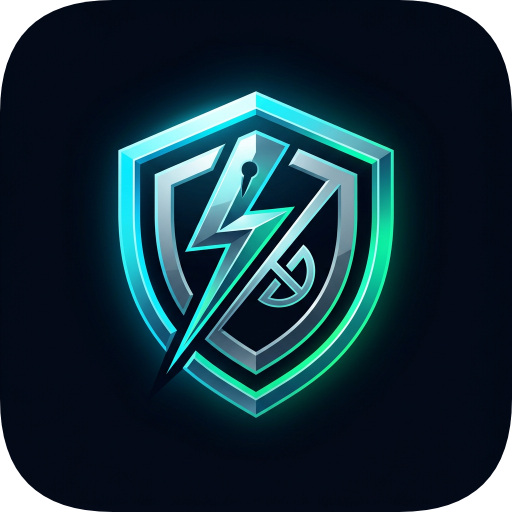
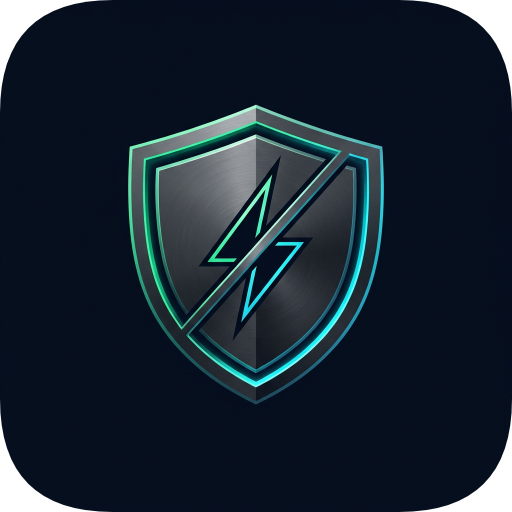
Actualizacion completa UI e iconos v5.3

Changed region(s): [[0.1875, 0.1562, 0.8125, 0.8438]]

diff --git a/app/src/main/java/com/bloqueador/anuncios/MainActivity.java b/app/src/main/java/com/bloqueador/anuncios/MainActivity.java
@@ -26,7 +26,9 @@ import android.os.Handler;
 import android.os.Looper;
 import android.os.PowerManager;
 import android.provider.Settings;
+import android.text.Editable;
 import android.text.TextUtils;
+import android.text.TextWatcher;
 import android.view.Gravity;
 import android.view.View;
 import android.view.ViewGroup;
@@ -73,12 +75,15 @@ public class MainActivity extends Activity {
     private LinearLayout topKeyBox, btnPower, alertBanner;
     private ImageView ivTopKey, ivKey;
     private TextView tvKeyLabel, tvState, tvSubState, tvAlertText;
+    private TextView tvHeroNet, tvHeroQuic, tvHeroSni;
     private TextView tvAds, tvQueries, tvListCount, tvLast;
     private TextView tvRowPackets, tvRowDoh, tvRowQuic, tvRowDns;
 
     // Activity tab
     private final TextView[] filterPills = new TextView[3];
     private int activityFilter = 0; // 0 = todos, 1 = bloqueados, 2 = permitidos
+    private String activityQuery = "";
+    private EditText etSearch;
     private LinearLayout boxHistory;
     private TextView tvManual;
 
@@ -253,13 +258,19 @@ public class MainActivity extends Activity {
         bar.setBackgroundColor(BG_BAR);
         bar.setPadding(dp(14), dp(12), dp(14), dp(12));
 
+        LinearLayout logoWrap = new LinearLayout(this);
+        logoWrap.setGravity(Gravity.CENTER);
+        logoWrap.setBackground(roundedBg(Color.parseColor("#11223A"), Color.parseColor("#1E4E6E"), 10));
+        LinearLayout.LayoutParams llp = new LinearLayout.LayoutParams(dp(34), dp(34));
+        llp.setMargins(0, 0, dp(10), 0);
+        logoWrap.setLayoutParams(llp);
+
         ImageView logo = new ImageView(this);
         logo.setImageResource(R.drawable.ic_nav_shield);
         logo.setColorFilter(CYAN, PorterDuff.Mode.SRC_IN);
-        LinearLayout.LayoutParams llp = new LinearLayout.LayoutParams(dp(24), dp(24));
-        llp.setMargins(0, 0, dp(10), 0);
-        logo.setLayoutParams(llp);
-        bar.addView(logo);
+        logo.setLayoutParams(new LinearLayout.LayoutParams(dp(19), dp(19)));
+        logoWrap.addView(logo);
+        bar.addView(logoWrap);
 
         LinearLayout left = new LinearLayout(this);
         left.setOrientation(LinearLayout.VERTICAL);
@@ -271,13 +282,13 @@ public class MainActivity extends Activity {
 
         TextView brand = new TextView(this);
         brand.setText("Adblock Gamer Pro");
-        brand.setTextSize(16);
+        brand.setTextSize(15);
         brand.setTypeface(null, Typeface.BOLD);
         brand.setTextColor(TEXT_PRIMARY);
         titleRow.addView(brand);
 
         TextView ver = new TextView(this);
-        ver.setText("v5.2");
+        ver.setText("v5.3");
         ver.setTextSize(10);
         ver.setTypeface(null, Typeface.BOLD);
         ver.setTextColor(CYAN);
@@ -331,14 +342,14 @@ public class MainActivity extends Activity {
     private LinearLayout buildProtectionTab() {
         LinearLayout root = tabContainer();
 
-        LinearLayout hero = cardBox(16, 16);
+        LinearLayout hero = cardBox(16, 15);
         hero.setGravity(Gravity.CENTER_HORIZONTAL);
 
         btnPower = new LinearLayout(this);
         btnPower.setOrientation(LinearLayout.VERTICAL);
         btnPower.setGravity(Gravity.CENTER);
         btnPower.setPadding(0, 0, 0, 0);
-        int pSize = dp(136);
+        int pSize = dp(142);
         LinearLayout.LayoutParams pLp = new LinearLayout.LayoutParams(pSize, pSize);
         pLp.gravity = Gravity.CENTER_HORIZONTAL;
         btnPower.setLayoutParams(pLp);
@@ -348,7 +359,7 @@ public class MainActivity extends Activity {
         ivKey.setImageResource(R.drawable.ic_key_gamer);
         ivKey.setScaleType(ImageView.ScaleType.FIT_CENTER);
         ivKey.setColorFilter(ROSE, PorterDuff.Mode.SRC_IN);
-        LinearLayout.LayoutParams kLp = new LinearLayout.LayoutParams(dp(44), dp(44));
+        LinearLayout.LayoutParams kLp = new LinearLayout.LayoutParams(dp(42), dp(42));
         kLp.gravity = Gravity.CENTER_HORIZONTAL;
         ivKey.setLayoutParams(kLp);
         btnPower.addView(ivKey);
@@ -357,7 +368,7 @@ public class MainActivity extends Activity {
         tvKeyLabel.setText("ACTIVAR");
         tvKeyLabel.setTextSize(11);
         tvKeyLabel.setTypeface(null, Typeface.BOLD);
-        tvKeyLabel.setLetterSpacing(0.10f);
+        tvKeyLabel.setLetterSpacing(0.11f);
         tvKeyLabel.setTextColor(TEXT_PRIMARY);
         tvKeyLabel.setIncludeFontPadding(false);
         tvKeyLabel.setGravity(Gravity.CENTER);
@@ -365,11 +376,16 @@ public class MainActivity extends Activity {
         LinearLayout.LayoutParams tLp = new LinearLayout.LayoutParams(
                 ViewGroup.LayoutParams.WRAP_CONTENT, ViewGroup.LayoutParams.WRAP_CONTENT);
         tLp.gravity = Gravity.CENTER_HORIZONTAL;
-        tLp.setMargins(0, dp(5), 0, 0);
+        tLp.setMargins(0, dp(4), 0, 0);
         tvKeyLabel.setLayoutParams(tLp);
         btnPower.addView(tvKeyLabel);
 
-        btnPower.setOnClickListener(v -> toggleProtection());
+        btnPower.setOnClickListener(v -> {
+            btnPower.animate().scaleX(0.93f).scaleY(0.93f).setDuration(80)
+                    .withEndAction(() -> btnPower.animate().scaleX(1f).scaleY(1f).setDuration(110).start())
+                    .start();
+            toggleProtection();
+        });
         hero.addView(btnPower);
 
         tvState = new TextView(this);
@@ -378,7 +394,7 @@ public class MainActivity extends Activity {
         tvState.setTypeface(null, Typeface.BOLD);
         tvState.setTextColor(ROSE);
         tvState.setGravity(Gravity.CENTER);
-        tvState.setPadding(0, dp(12), 0, dp(3));
+        tvState.setPadding(0, dp(10), 0, dp(2));
         hero.addView(tvState);
 
         tvSubState = new TextView(this);
@@ -386,7 +402,21 @@ public class MainActivity extends Activity {
         tvSubState.setTextSize(12);
         tvSubState.setTextColor(TEXT_MUTED);
         tvSubState.setGravity(Gravity.CENTER);
+        tvSubState.setPadding(0, 0, 0, dp(10));
         hero.addView(tvSubState);
+
+        hero.addView(divider());
+
+        LinearLayout heroStrip = new LinearLayout(this);
+        heroStrip.setOrientation(LinearLayout.HORIZONTAL);
+        heroStrip.setWeightSum(3);
+        heroStrip.setPadding(0, dp(9), 0, 0);
+        heroStrip.setLayoutParams(new LinearLayout.LayoutParams(
+                ViewGroup.LayoutParams.MATCH_PARENT, ViewGroup.LayoutParams.WRAP_CONTENT));
+        tvHeroNet = miniTag(heroStrip, "WiFi + 4G/5G");
+        tvHeroQuic = miniTag(heroStrip, "QUIC / DoH");
+        tvHeroSni = miniTag(heroStrip, "Filtro SNI");
+        hero.addView(heroStrip);
 
         root.addView(hero);
 
@@ -434,9 +464,9 @@ public class MainActivity extends Activity {
         mlp.setMargins(0, dp(10), 0, 0);
         metrics.setLayoutParams(mlp);
 
-        tvAds = metricCard(metrics, "0", "Bloqueados", EMERALD, true);
-        tvQueries = metricCard(metrics, "0", "Consultas", CYAN, true);
-        tvListCount = metricCard(metrics, "76k", "Dominios", TEXT_PRIMARY, false);
+        tvAds = metricCard(metrics, R.drawable.ic_nav_shield, "0", "Bloqueados", EMERALD, true);
+        tvQueries = metricCard(metrics, R.drawable.ic_nav_activity, "0", "Consultas", CYAN, true);
+        tvListCount = metricCard(metrics, R.drawable.ic_perm_data, "76k", "Dominios", TEXT_PRIMARY, false);
         root.addView(metrics);
 
         LinearLayout lastCard = cardBox(15, 11);
@@ -525,6 +555,54 @@ public class MainActivity extends Activity {
         }
         styleFilterChips();
         headerCard.addView(chips);
+
+        LinearLayout searchBox = new LinearLayout(this);
+        searchBox.setOrientation(LinearLayout.HORIZONTAL);
+        searchBox.setGravity(Gravity.CENTER_VERTICAL);
+        searchBox.setBackground(roundedBg(BG_DARK, BORDER_SUBTLE, 11));
+        searchBox.setPadding(dp(10), dp(2), dp(8), dp(2));
+        LinearLayout.LayoutParams slp = new LinearLayout.LayoutParams(
+                ViewGroup.LayoutParams.MATCH_PARENT, ViewGroup.LayoutParams.WRAP_CONTENT);
+        slp.setMargins(0, dp(9), 0, 0);
+        searchBox.setLayoutParams(slp);
+
+        ImageView sIc = new ImageView(this);
+        sIc.setImageResource(R.drawable.ic_search_small);
+        sIc.setColorFilter(TEXT_MUTED, PorterDuff.Mode.SRC_IN);
+        LinearLayout.LayoutParams silp = new LinearLayout.LayoutParams(dp(15), dp(15));
+        silp.setMargins(0, 0, dp(8), 0);
+        sIc.setLayoutParams(silp);
+        searchBox.addView(sIc);
+
+        etSearch = new EditText(this);
+        etSearch.setHint("Buscar dominio (ej: mollyflow, emochi)...");
+        etSearch.setTextSize(12);
+        etSearch.setSingleLine(true);
+        etSearch.setBackground(null);
+        etSearch.setTextColor(TEXT_PRIMARY);
+        etSearch.setHintTextColor(Color.parseColor("#52668A"));
+        etSearch.setPadding(0, dp(7), 0, dp(7));
+        etSearch.setLayoutParams(new LinearLayout.LayoutParams(0, ViewGroup.LayoutParams.WRAP_CONTENT, 1f));
+        etSearch.addTextChangedListener(new TextWatcher() {
+            @Override public void beforeTextChanged(CharSequence s, int start, int count, int after) {}
+            @Override public void onTextChanged(CharSequence s, int start, int before, int count) {}
+            @Override public void afterTextChanged(Editable s) {
+                activityQuery = s == null ? "" : s.toString().trim().toLowerCase();
+                renderHistory();
+            }
+        });
+        searchBox.addView(etSearch);
+
+        TextView clearBtn = new TextView(this);
+        clearBtn.setText("Limpiar");
+        clearBtn.setTextSize(10);
+        clearBtn.setTypeface(null, Typeface.BOLD);
+        clearBtn.setTextColor(TEXT_MUTED);
+        clearBtn.setPadding(dp(8), dp(5), dp(6), dp(5));
+        clearBtn.setOnClickListener(v -> etSearch.setText(""));
+        searchBox.addView(clearBtn);
+
+        headerCard.addView(searchBox);
         root.addView(headerCard);
 
         LinearLayout listCard = cardBox(12, 8);
@@ -620,15 +698,15 @@ public class MainActivity extends Activity {
 
         LinearLayout swCard = cardBox(15, 10);
         swCard.addView(cardTitle("CAPAS DE BLOQUEO AVANZADO"));
-        swCard.addView(switchRow("Inspección SNI + HTTP", "Analiza conexiones de juegos sin descifrar datos privados", 0));
+        swCard.addView(switchRow(R.drawable.ic_nav_shield, "Inspección SNI + HTTP", "Analiza conexiones de juegos sin descifrar datos privados", 0));
         swCard.addView(divider());
-        swCard.addView(switchRow("Bloquear red publicitaria de Meta", "Filtra anuncios sin afectar WhatsApp ni Instagram", 1));
+        swCard.addView(switchRow(R.drawable.ic_nav_filters, "Bloquear red publicitaria de Meta", "Filtra anuncios sin afectar WhatsApp ni Instagram", 1));
         swCard.addView(divider());
-        swCard.addView(switchRow("Cortar QUIC (UDP 443 y 8443)", "Evita que Chrome/WebView/ads esquiven el filtro TCP", 2));
+        swCard.addView(switchRow(R.drawable.ic_nav_activity, "Cortar QUIC (UDP 443 y 8443)", "Evita que Chrome/WebView/ads esquiven el filtro TCP", 2));
         swCard.addView(divider());
-        swCard.addView(switchRow("Cortar DoT / DoH evasivo", "Impide que los SDKs usen DNS privado 1.1.1.1 / 8.8.8.8", 3));
+        swCard.addView(switchRow(R.drawable.ic_perm_vpn, "Cortar DoT / DoH evasivo", "Impide que los SDKs usen DNS privado 1.1.1.1 / 8.8.8.8", 3));
         swCard.addView(divider());
-        swCard.addView(switchRow("Notificar anuncios bloqueados", "Muestra aviso en Android al cortar publicidad", 4));
+        swCard.addView(switchRow(R.drawable.ic_perm_notif, "Notificar anuncios bloqueados", "Muestra aviso en Android al cortar publicidad", 4));
         root.addView(swCard);
 
         LinearLayout listCard = cardBox(15, 13);
@@ -842,7 +920,19 @@ public class MainActivity extends Activity {
         return t;
     }
 
-    private TextView metricCard(LinearLayout parent, String val, String label, int color, boolean gapRight) {
+    private TextView miniTag(LinearLayout parent, String text) {
+        TextView t = new TextView(this);
+        t.setText(text);
+        t.setTextSize(10);
+        t.setTypeface(null, Typeface.BOLD);
+        t.setTextColor(TEXT_MUTED);
+        t.setGravity(Gravity.CENTER);
+        t.setLayoutParams(new LinearLayout.LayoutParams(0, ViewGroup.LayoutParams.WRAP_CONTENT, 1f));
+        parent.addView(t);
+        return t;
+    }
+
+    private TextView metricCard(LinearLayout parent, int iconRes, String val, String label, int color, boolean gapRight) {
         LinearLayout c = new LinearLayout(this);
         c.setOrientation(LinearLayout.VERTICAL);
         c.setGravity(Gravity.CENTER);
@@ -860,14 +950,27 @@ public class MainActivity extends Activity {
         v.setGravity(Gravity.CENTER);
         c.addView(v);
 
+        LinearLayout labRow = new LinearLayout(this);
+        labRow.setOrientation(LinearLayout.HORIZONTAL);
+        labRow.setGravity(Gravity.CENTER);
+        labRow.setPadding(0, dp(2), 0, 0);
+
+        ImageView ic = new ImageView(this);
+        ic.setImageResource(iconRes);
+        ic.setColorFilter(TEXT_MUTED, PorterDuff.Mode.SRC_IN);
+        LinearLayout.LayoutParams ilp = new LinearLayout.LayoutParams(dp(11), dp(11));
+        ilp.setMargins(0, 0, dp(4), 0);
+        ic.setLayoutParams(ilp);
+        labRow.addView(ic);
+
         TextView l = new TextView(this);
         l.setText(label);
         l.setTextSize(11);
         l.setTextColor(TEXT_MUTED);
-        l.setGravity(Gravity.CENTER);
-        l.setPadding(0, dp(1), 0, 0);
-        c.addView(l);
+        l.setIncludeFontPadding(false);
+        labRow.addView(l);
 
+        c.addView(labRow);
         parent.addView(c);
         return v;
     }
@@ -922,16 +1025,30 @@ public class MainActivity extends Activity {
         return b;
     }
 
-    private LinearLayout switchRow(String title, String desc, int which) {
+    private LinearLayout switchRow(int iconRes, String title, String desc, int which) {
         LinearLayout row = new LinearLayout(this);
         row.setOrientation(LinearLayout.HORIZONTAL);
         row.setGravity(Gravity.CENTER_VERTICAL);
         row.setPadding(0, dp(10), 0, dp(10));
 
+        LinearLayout iconWrap = new LinearLayout(this);
+        iconWrap.setGravity(Gravity.CENTER);
+        iconWrap.setBackground(roundedBg(Color.parseColor("#0D192E"), BORDER_SUBTLE, 9));
+        LinearLayout.LayoutParams wlp = new LinearLayout.LayoutParams(dp(30), dp(30));
+        wlp.setMargins(0, 0, dp(10), 0);
+        iconWrap.setLayoutParams(wlp);
+
+        ImageView ic = new ImageView(this);
+        ic.setImageResource(iconRes);
+        ic.setColorFilter(CYAN, PorterDuff.Mode.SRC_IN);
+        ic.setLayoutParams(new LinearLayout.LayoutParams(dp(16), dp(16)));
+        iconWrap.addView(ic);
+        row.addView(iconWrap);
+
         LinearLayout left = new LinearLayout(this);
         left.setOrientation(LinearLayout.VERTICAL);
         left.setLayoutParams(new LinearLayout.LayoutParams(0, ViewGroup.LayoutParams.WRAP_CONTENT, 1f));
-        left.setPadding(0, 0, dp(12), 0);
+        left.setPadding(0, 0, dp(10), 0);
 
         TextView t = new TextView(this);
         t.setText(title);
@@ -1115,6 +1232,21 @@ public class MainActivity extends Activity {
 
         tvTopNet.setText(networkName());
 
+        if (tvHeroNet != null) {
+            tvHeroNet.setText(real ? "● Túnel activo" : "○ En espera");
+            tvHeroNet.setTextColor(real ? EMERALD : TEXT_MUTED);
+        }
+        if (tvHeroQuic != null) {
+            boolean q = prefs.getBoolean(Blocklist.KEY_BLOCK_QUIC, true);
+            tvHeroQuic.setText(q ? "QUIC cortado" : "QUIC libre");
+            tvHeroQuic.setTextColor(q && real ? CYAN : TEXT_MUTED);
+        }
+        if (tvHeroSni != null) {
+            boolean s = prefs.getBoolean(Blocklist.KEY_SNI_MODE, true);
+            tvHeroSni.setText(s ? "SNI activo" : "Solo DNS");
+            tvHeroSni.setTextColor(s && real ? CYAN : TEXT_MUTED);
+        }
+
         int blocked = AdBlockVpnService.DNS_BLOCKED.get() + AdBlockVpnService.SNI_BLOCKED.get();
         int queries = blocked + AdBlockVpnService.QUIC_DROPPED.get();
         int domains = Blocklist.count(this);
@@ -1153,14 +1285,21 @@ public class MainActivity extends Activity {
     }
 
     private void renderHistory() {
-        List<TrafficLog.Entry> all = TrafficLog.recent(40);
+        List<TrafficLog.Entry> all = TrafficLog.recent(50);
+        int cAll = 0, cBlk = 0, cAllow = 0;
         List<TrafficLog.Entry> list = new ArrayList<>();
         for (TrafficLog.Entry e : all) {
+            if (!activityQuery.isEmpty() && !e.domain.toLowerCase().contains(activityQuery)) continue;
+            cAll++;
+            if (e.blocked) cBlk++; else cAllow++;
             if (activityFilter == 1 && !e.blocked) continue;
             if (activityFilter == 2 && e.blocked) continue;
-            list.add(e);
-            if (list.size() >= 25) break;
+            if (list.size() < 25) list.add(e);
         }
+
+        if (filterPills[0] != null) filterPills[0].setText("Todos (" + cAll + ")");
+        if (filterPills[1] != null) filterPills[1].setText("Bloqueados (" + cBlk + ")");
+        if (filterPills[2] != null) filterPills[2].setText("Permitidos (" + cAllow + ")");
 
         boxHistory.removeAllViews();
         if (list.isEmpty()) {
@@ -1478,7 +1617,7 @@ public class MainActivity extends Activity {
                     ? new Notification.Builder(this, chId)
                     : new Notification.Builder(this);
             b.setSmallIcon(R.drawable.ic_stat_shield)
-                    .setContentTitle("Adblock Gamer Pro v5.2")
+                    .setContentTitle("Adblock Gamer Pro v5.3")
                     .setContentText("Notificaciones funcionando correctamente")
                     .setContentIntent(pi)
                     .setAutoCancel(true);

diff --git a/app/src/main/java/com/bloqueador/anuncios/Blocklist.java b/app/src/main/java/com/bloqueador/anuncios/Blocklist.java
@@ -279,7 +279,7 @@ public final class Blocklist {
             conn.setConnectTimeout(15000);
             conn.setReadTimeout(45000);
             conn.setRequestMethod("GET");
-            conn.setRequestProperty("User-Agent", "AdblockGamerPro/5.2");
+            conn.setRequestProperty("User-Agent", "AdblockGamerPro/5.3");
             if (conn.getResponseCode() != HttpURLConnection.HTTP_OK) return;
             try (InputStream in = conn.getInputStream();
                  BufferedReader br = new BufferedReader(

diff --git a/app/src/main/java/com/bloqueador/anuncios/AdBlockVpnService.java b/app/src/main/java/com/bloqueador/anuncios/AdBlockVpnService.java
@@ -220,7 +220,7 @@ public class AdBlockVpnService extends VpnService {
                         + " bloqueados | " + PACKETS_READ.get() + " paquetes"
                 : "Protección detenida";
         b.setSmallIcon(R.drawable.ic_stat_shield)
-                .setContentTitle("Adblock Gamer Pro v5.2")
+                .setContentTitle("Adblock Gamer Pro v5.3")
                 .setContentText(txt)
                 .setContentIntent(pi)
                 .setOngoing(active)
